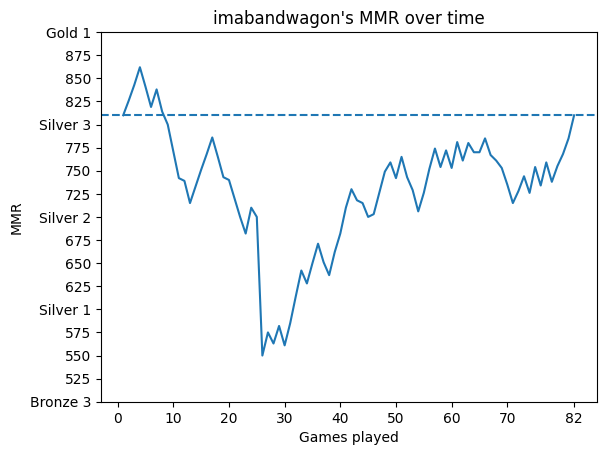
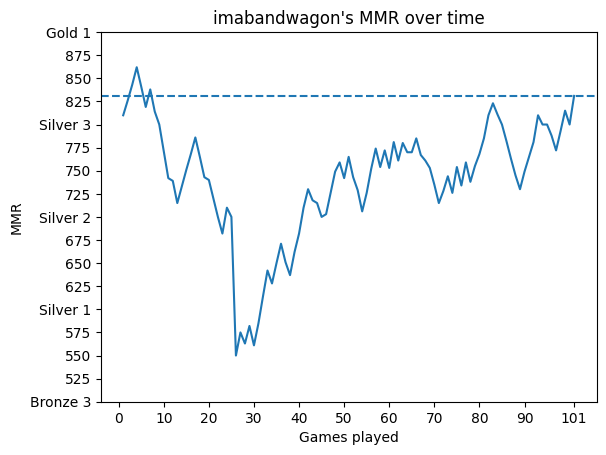
fixed bug in graph and elolist for new players, added some accounts

diff --git a/graphs.py b/graphs.py
@@ -21,9 +21,6 @@ def rounddown(x):
     return int(math.floor(x / 100.0)) * 100
 
 def make_graph(username):
-
-    if os.path.isfile('/home/ubuntu/discord_bot/elo_history/{}.txt'.format(username)) == False:
-        return False
     
     playerlist = playerclass.PlayerList('playerlist.csv')
     playerlist.load()
@@ -34,7 +31,11 @@ def make_graph(username):
             tagline = player.tag
             break
 
-    valorant.update_elo_history(username, tagline)
+    if valorant.update_elo_history(username, tagline) == -1:
+        return False
+
+    if os.path.isfile('/home/ubuntu/discord_bot/elo_history/{}.txt'.format(username)) == False:
+        return False
     
     file1 = open('/home/ubuntu/discord_bot/elo_history/{}.txt'.format(username), 'r')
 
@@ -221,4 +222,5 @@ def double_graph(players):
 if __name__ == "__main__":
     #double_graph(['8888','azatory','bento2','crossaxis','fade','fakinator', 'giroud', 'grovyle', 'imabandwagon', 'jokii', 'katchampion',
     # 'yovivels', 'dilka30003', 'slumonaire', 'silentwhispers', 'lmao', 'jack', 'thesugarman', 'hoben222', 'quackinator'])
-    double_graph(['8888', 'yovivels', 'dilka30003', 'slumonaire'])
+    #double_graph(['8888', 'yovivels', 'dilka30003', 'slumonaire'])
+    print(make_graph("thomyorke"))

diff --git a/valorant.py b/valorant.py
@@ -60,7 +60,7 @@ def update_elo_history(username, tagline):
     player_data = get_elo_history(username, tagline)
 
     if player_data == False:
-        return 0
+        return -1
     
     player_file_path = '/home/ubuntu/discord_bot/elo_history/{}.txt'.format(username)
 
@@ -129,11 +129,10 @@ def get_elolist(username):
     file1 = open('/home/ubuntu/discord_bot/elo_history/{}.txt'.format(username), 'r')
 
     lines = [x.strip() for x in file1.readlines()]
-    if len(lines) == 2:
+    if len(lines) == 1:
         return None
     lines.pop(0)
     
-    lines = lines[1:]
     elolist = ""
 
     for elem in lines:
@@ -169,7 +168,7 @@ def elo_leaderboard():
         user = bohn[i][1]
         elo = bohn[i][0]
         rank = i + 1
-        leaderboard += str(str(rank) + '.').ljust(3) + str(user).ljust(14) + str(elo).rjust(5) + '\n'
+        leaderboard += str(str(rank) + '.').ljust(3) + str(user).ljust(16) + str(elo).rjust(5) + '\n'
 
     f = open("leaderboard.txt", "w")
     f.write(leaderboard)

diff --git a/main.py b/main.py
@@ -137,7 +137,10 @@ async def elolist(ctx, *, username):
 
     username = username.split('#')[0].lower()
     elolist = valorant.get_elolist(username)
-    await ctx.send("```\n" + elolist + "\n```")
+    if elolist == None:
+        await ctx.send("No comp games recorded")
+    else:
+        await ctx.send("```\n" + elolist + "\n```")
 
 @client.command(
     help="Syntax: $stats username#tag", 
